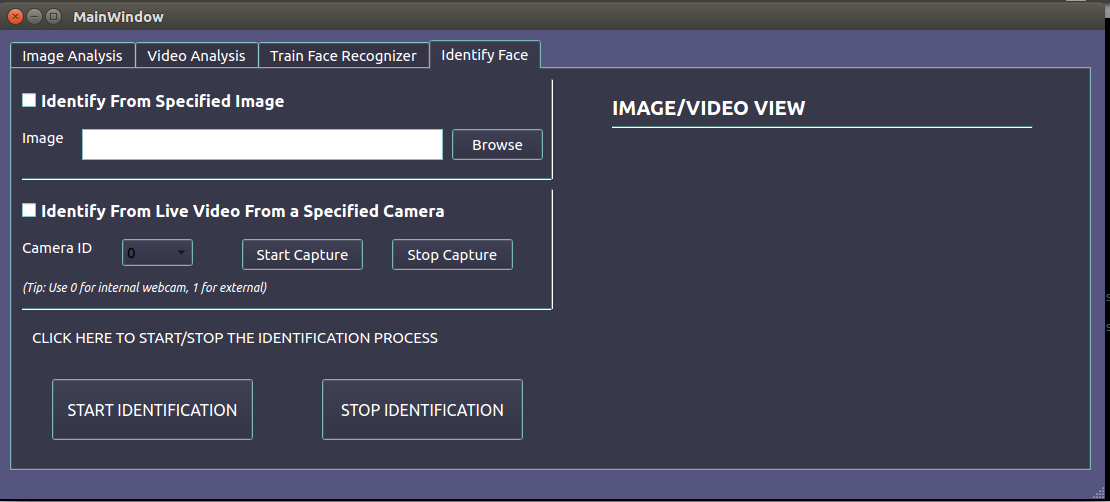
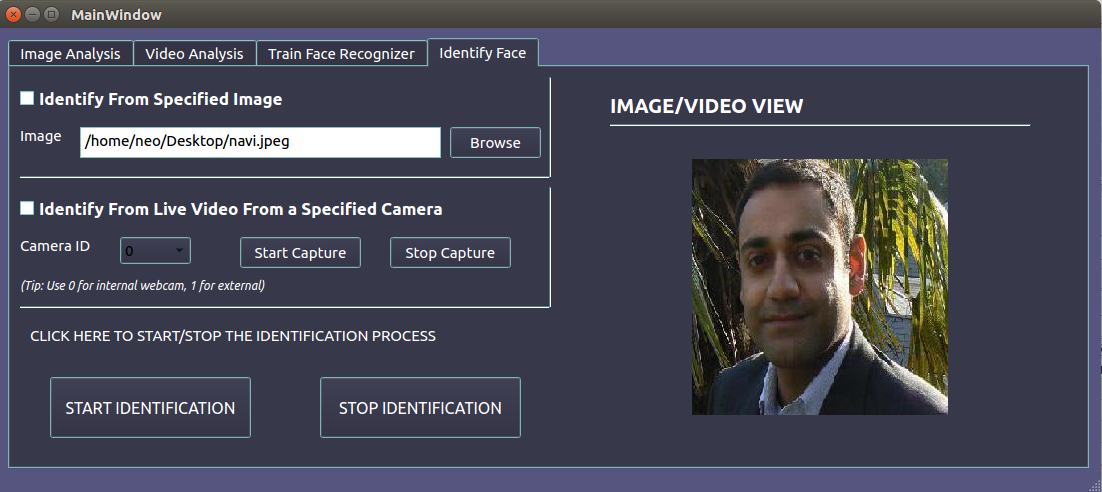
load image for identification

diff --git a/app.py b/app.py
@@ -81,11 +81,13 @@ class AppWindow(QMainWindow):
         self.actionPreferences.triggered.connect(self.show_preferences)
 
         self.img_widget_vid_analysis = ImageWidget()
-
         self.hlayoutVideoAnalysis.addWidget(self.img_widget_vid_analysis)
 
         self.img_widget_face_training = ImageWidget()
         self.hlayoutFaceTrainingImg.addWidget(self.img_widget_face_training)
+
+        self.img_widget_identify_face = ImageWidget()
+        self.hlayoutIdentifyFace.addWidget(self.img_widget_identify_face)
 
         self.img_widget_img_analysis = ImageWidget()
         self.hlayoutImageAnalysis.addWidget(self.img_widget_img_analysis)
@@ -102,6 +104,15 @@ class AppWindow(QMainWindow):
         self.btnBrowseDatasetForFaceTrainer.clicked.connect(self.browse_dataset_for_face_trainer)
         self.btnBrowseClassifierForFaceTrainer.clicked.connect(self.browse_classifier_file_for_face_trainer)
         self.btnStartFaceTrainer.clicked.connect(self.start_face_trainer)
+
+        self.btnBrowseIdentifyFace.clicked.connect(self.browse_identify_face)
+
+    def browse_identify_face(self):
+        fname = QFileDialog.getOpenFileName(self, 'Open file', '/home')
+        self.teIdentifyFace.setText(fname[0])
+
+        img = cv2.imread(fname[0]) 
+        self.img_widget_identify_face.handle_image_data(img)
 
     def start_face_trainer(self):
         dataset_dir = self.teFaceTrainerDataset.toPlainText()
